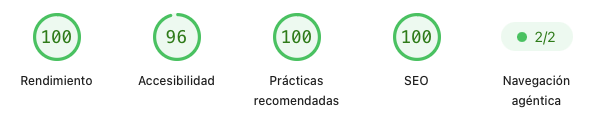
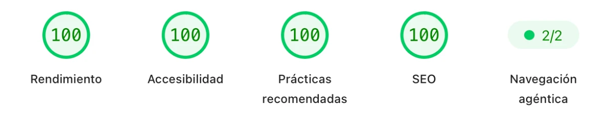
Actualiza Lighthouse móvil a 100 y añade el arreglo de las áreas táctiles del mapa

diff --git a/docs/retos.md b/docs/retos.md
@@ -60,7 +60,7 @@ while (unidos.length < n) {
 ## Calidad
 
 - **Preguntas sin trampa.** Un validador en cada build avisa si la correcta tiende a ser la más larga (comparando con lo esperable por azar) y rechaza imágenes SVG con scripts o referencias externas.
-- **394 pruebas** de la lógica y del validador, que se ejecutan en milisegundos sin navegador.
+- **396 pruebas** de la lógica y del validador, que se ejecutan en milisegundos sin navegador.
 
 ## SEO
 
@@ -82,3 +82,4 @@ Algunos fallos reales del desarrollo, con su causa y cómo se resolvieron.
 - **Una pestaña repintaba la otra con cada respuesta.** Los cambios hechos en otra pestaña se aplicaban y se fundían en cuanto llegaban. Ahora se aplican una sola vez, cuando el usuario vuelve a ver esa página.
 - **La analítica no contaba visitas.** El script puesto a mano enviaba los datos a un dominio que respondía 404 sin CORS. Se cambió al punto de recogida del propio dominio y se comprobó en la pestaña Red que la petición devuelve 204.
 - **Accesibilidad del 94 al 96 en móvil.** PageSpeed avisó de que ninguna página tenía `<main>` y de que la etiqueta de versión tenía un contraste de 4,2:1. Se añadió `<main>` en el layout común, ajustando el selector que daba el ancho para que los titulares siguieran a todo el ancho, y el color pasó a mezclarse con el del texto para llegar a 5,1:1.
+- **Accesibilidad del 96 al 100 en móvil.** Quedaba el aviso de áreas táctiles, con dos casos. En el mapa encogido del móvil, el enlace con el nombre de la asignatura tapaba por abajo la zona táctil de las estrellas más altas, así que tocar una estrella podía abrir la asignatura. Ahora el hueco del nombre se calcula midiendo en la página el alto real de los nombres (con su fuente y el ancho de su columna), la fila crece sin encoger la constelación y, por si acaso, las estrellas quedan por encima de los nombres. Además, los puntos de página del mapa caían detrás de la barra inferior fija del móvil: con esa barra a la vista, el resumen y los puntos pasan a una cabecera encima del mapa, y el HTML se genera en el orden en que se ve, para que el tabulador y el lector de pantalla sigan ese mismo orden. Para que el alto medido no cambie al llegar la fuente, ahora se precarga.

diff --git a/README.md b/README.md
@@ -36,7 +36,7 @@ Lo desarrollé con Claude Code como asistente de programación. Lo que sigue es 
 Nada se da por bueno sin comprobarlo. Cada entrega pasa por lo mismo antes del commit:
 
 - `pnpm build`, que valida todo el contenido en modo estricto, comprueba los tipos (`astro check` y `tsc`), construye la web y revisa los 240 archivos generados para que no carguen nada externo ni lleven scripts en línea.
-- `pnpm test`, con las 394 pruebas de la lógica y del validador.
+- `pnpm test`, con las 396 pruebas de la lógica y del validador.
 - Revisión visual en `pnpm dev`, en tema claro, en oscuro y en móvil, con capturas cuando algo no cuadra.
 - Lectura del diff final. Los commits los hago yo, uno a uno.
 
@@ -82,7 +82,7 @@ Lighthouse en la portada (PageSpeed Insights):
 
 | Móvil | Escritorio |
 |---|---|
-| ![Móvil: 100 de rendimiento, 96 de accesibilidad, 100 de buenas prácticas y 100 de SEO](docs/capturas/lighthouse-movil.png) | ![Escritorio: 100 en rendimiento, accesibilidad, buenas prácticas y SEO](docs/capturas/lighthouse-escritorio.png) |
+| ![Móvil: 100 en rendimiento, accesibilidad, buenas prácticas y SEO](docs/capturas/lighthouse-movil.png) | ![Escritorio: 100 en rendimiento, accesibilidad, buenas prácticas y SEO](docs/capturas/lighthouse-escritorio.png) |
 
 Cómo se consiguió, en [docs/retos.md](docs/retos.md#seo).
 
